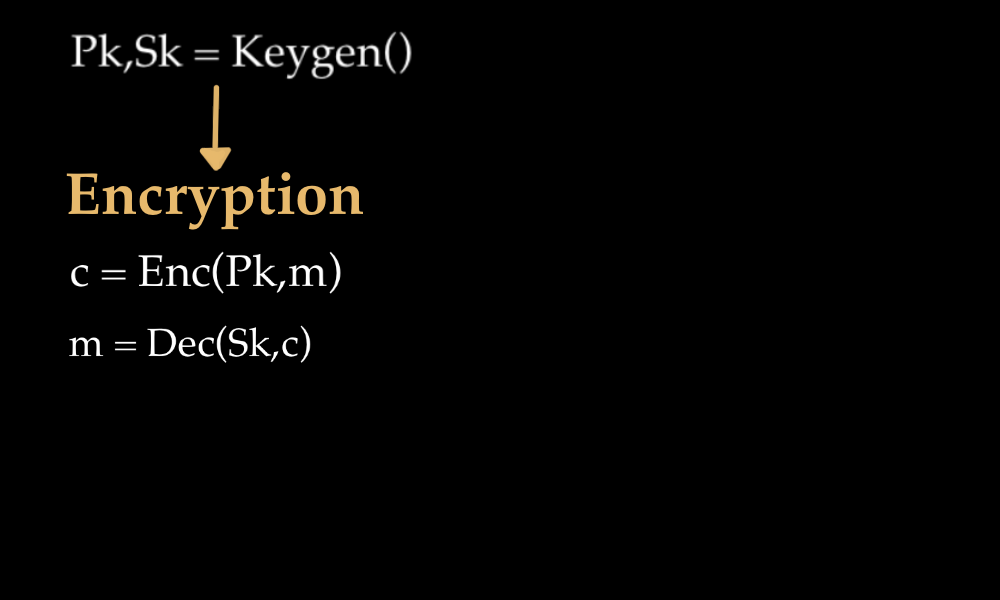
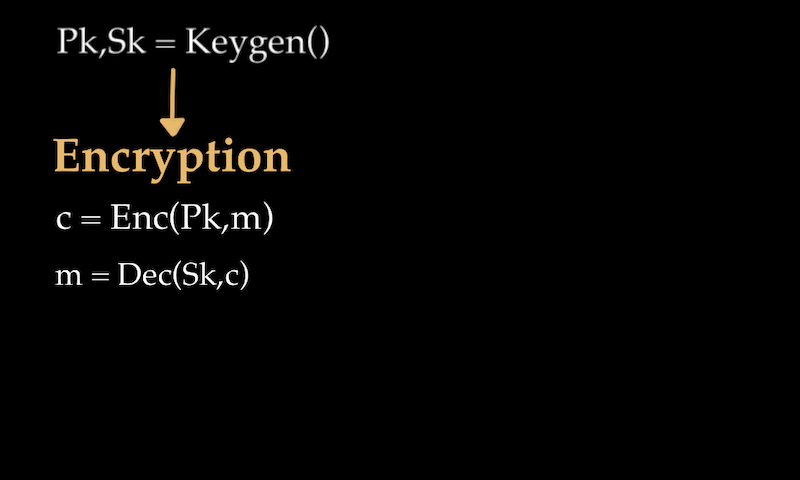
formating and adding zoo

diff --git a/post-quantum-cryptography/template/style.scss b/post-quantum-cryptography/template/style.scss
@@ -58,7 +58,7 @@ $iframe-scale     : 1.5;
 * { box-sizing: border-box; }
 body { font-family: 'Poppins'; }
 h1, h2, h3, h4, h5, h6 {
-  margin: 0 0 $margin 0;
+  margin: 0 0 0 0;
   font-family: 'Poppins';
   font-style: normal;
   font-weight: 600;
@@ -174,7 +174,7 @@ table {
 
 .remark-slide-content {
   font-size: $font-size;
-  padding: 1em 2em;
+  padding: 0.5em 0.5em;
   color: $text-light;
   background-size: cover;
   background: $dark;

diff --git a/post-quantum-cryptography/post-quantum.md b/post-quantum-cryptography/post-quantum.md
@@ -12,36 +12,55 @@ background-image: url(./images/home.png)
 ## Willy Malvault - Snowcamp 2023
 
 ---
-# On Wednesday 6 of July 2022
-.center[![Tweet Stephane Bortzmeyer](images/Tweet-sb.png)]
+.center[
+# At the origin
+![Tweet Stephane Bortzmeyer](images/Tweet-sb.png)
+]
 
 ---
 # What is a public key cryptography scheme ?
-
---
-
+.center[
 ![crypto scheme](./images/cryptosystem-0.png)
----
+]
 
+---
 # What is a public key cryptography scheme ?
+.center[
 ![crypto scheme](./images/cryptosystem-1.png)
----
+]
 
+---
 # What is a public key cryptography scheme ?
+.center[
 ![crypto scheme](./images/cryptosystem-2.png)
----
+]
 
+---
 # What is a public key cryptography scheme ?
+.center[
 ![crypto scheme](./images/cryptosystem-3.png)
----
+]
 
+---
 # What is a public key cryptography scheme ?
+.center[
 ![crypto scheme](./images/cryptosystem-4.png)
+]
 
 ---
 #  What's the point ?
 
-![Cruypto usage](./images/Crypto_Zoo.png)
+.center[![Cruypto usage](./images/zoo-1.png)]
+
+---
+#  What's the point ?
+
+.center[![Cruypto usage](./images/zoo-2.png)]
+
+---
+#  What's the point ?
+
+.center[![Cruypto usage](./images/zoo-3.png)]
 
 ---
 # How to implement public key cryptography ?
@@ -65,19 +84,19 @@ background-image: url(./images/home.png)
 ]
 
 ---
-### Prime number factorization
+# Prime number factorization
 ![factorization is hard](images/PxQ-0.png)
 
 ---
-### Prime number factorization
+# Prime number factorization
 ![factorization is hard](images/PxQ-1.png)
 
 ---
-### Prime number factorization
+# Prime number factorization
 ![factorization is hard](images/PxQ-2.png)
 
 ---
-### Prime number factorization
+# Prime number factorization
 ![factorization is hard](images/PxQ-3.png)
 
 ---
